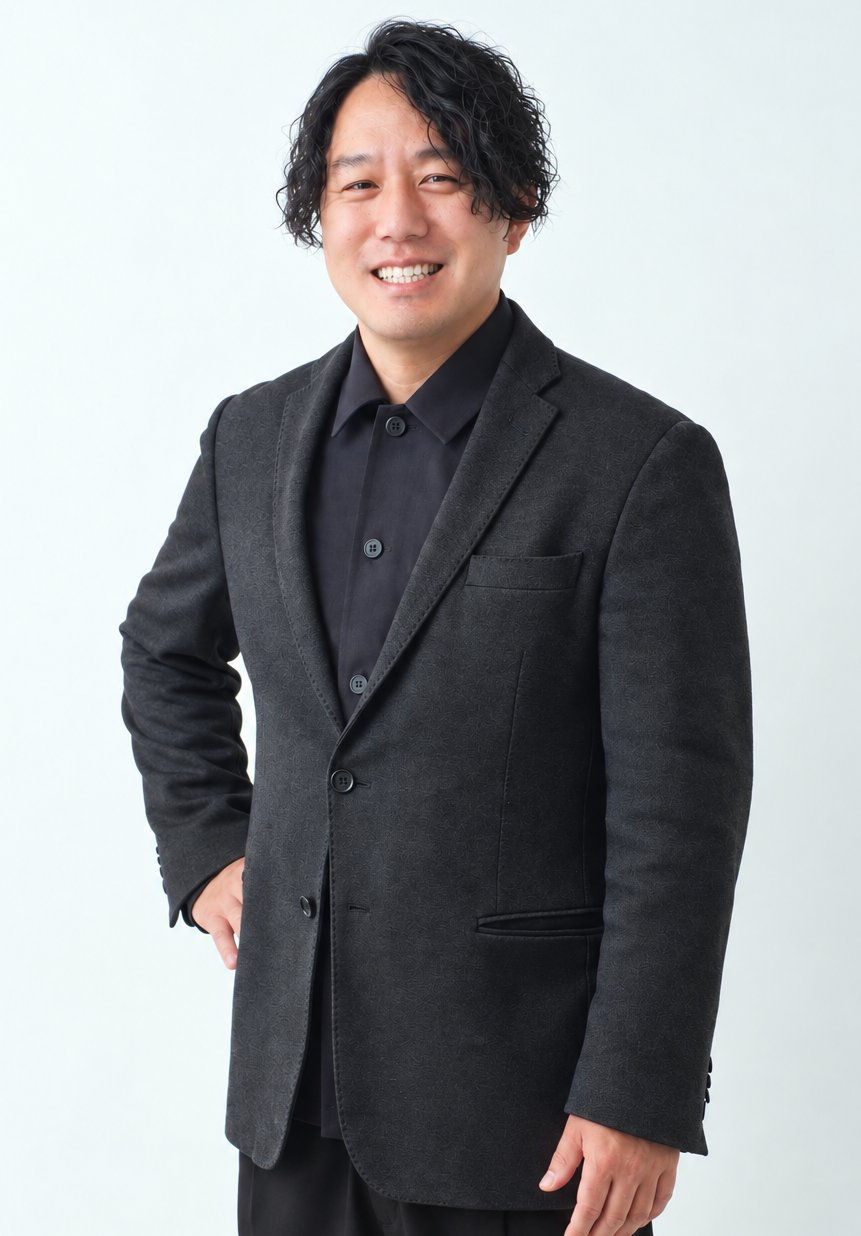
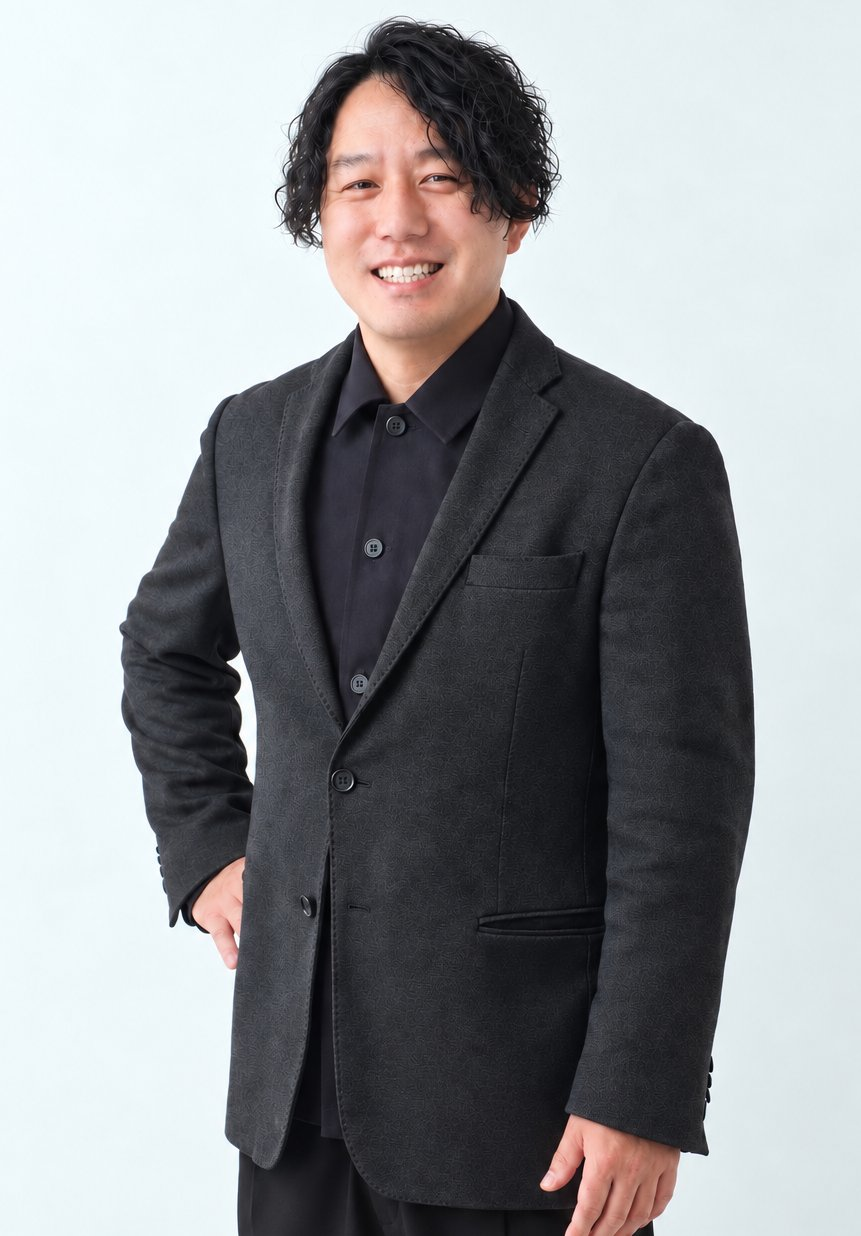
本人写真を毛量・色白の加工版に統一、これまで/いまを赤字、縦書きAIを縦中横、カード内要素の位置をsubgridで揃える

diff --git a/src/assets/styles/_corp.scss b/src/assets/styles/_corp.scss
@@ -3213,3 +3213,120 @@ $ease: cubic-bezier(0.22, 1, 0.36, 1);
     }
   }
 }
+
+/*****************/
+/*** 指摘対応（2026-10-02 夜）***/
+/*****************/
+#corp-page {
+  /* 「これまで／いま」の大きな一言は両方とも赤 */
+  .cp-change__big,
+  .cp-change__col.is-now .cp-change__big {
+    color: $red;
+
+    em {
+      box-shadow: none;
+    }
+  }
+
+  /* 縦書きの中の「AI」を縦中横に */
+  .cp-tcy {
+    text-combine-upright: all;
+    -webkit-text-combine: horizontal;
+    letter-spacing: 0;
+  }
+}
+
+@media screen and (min-width: 769px) {
+  #corp-page {
+    /* 事業内容カード：キャッチの上に余白 */
+    .cp-service__catch {
+      margin-top: 16px;
+    }
+
+    /*
+      横に並ぶカード同士で行を共有し、各要素の開始位置を揃える（subgrid）。
+      事業内容＝アイコン／英字／名前／キャッチ／本文／項目の6行
+      事例＝図または絵／業種／見出し／本文の4行
+      大切にしていること＝アイコンと番号／名前／本文の3行
+    */
+    .cp-service__list {
+      grid-template-rows: repeat(6, auto);
+      row-gap: 0;
+    }
+
+    .cp-service__item {
+      display: grid;
+      grid-row: span 6;
+      grid-template-rows: subgrid;
+      row-gap: 0;
+      align-content: start;
+
+      > * {
+        margin-top: 0;
+      }
+
+      .cp-service__en {
+        margin-top: 0;
+      }
+
+      .cp-service__name {
+        margin-top: 10px;
+      }
+
+      .cp-service__catch {
+        margin-top: 16px;
+      }
+
+      .cp-service__txt {
+        margin-top: 20px;
+      }
+
+      .cp-service__items {
+        margin-top: 24px;
+      }
+    }
+
+    .cp-works__list {
+      grid-template-rows: repeat(4, auto);
+      row-gap: 0;
+    }
+
+    .cp-work {
+      display: grid;
+      grid-row: span 4;
+      grid-template-rows: subgrid;
+      row-gap: 0;
+
+      /* 1行目（数字の図／アイコン）は下揃えにして、業種の行の位置を合わせる */
+      > :first-child {
+        align-self: end;
+      }
+
+      .cp-work__tag {
+        margin-top: 20px;
+      }
+    }
+
+    .cp-values__list {
+      grid-template-rows: repeat(3, auto);
+      row-gap: 0;
+    }
+
+    .cp-values__item {
+      display: grid;
+      grid-row: span 3;
+      grid-template-rows: subgrid;
+      row-gap: 0;
+    }
+  }
+}
+
+#corp-page {
+  .cp-vertical {
+    white-space: nowrap;
+  }
+
+  .cp-mission__txt {
+    text-wrap: balance;
+  }
+}
